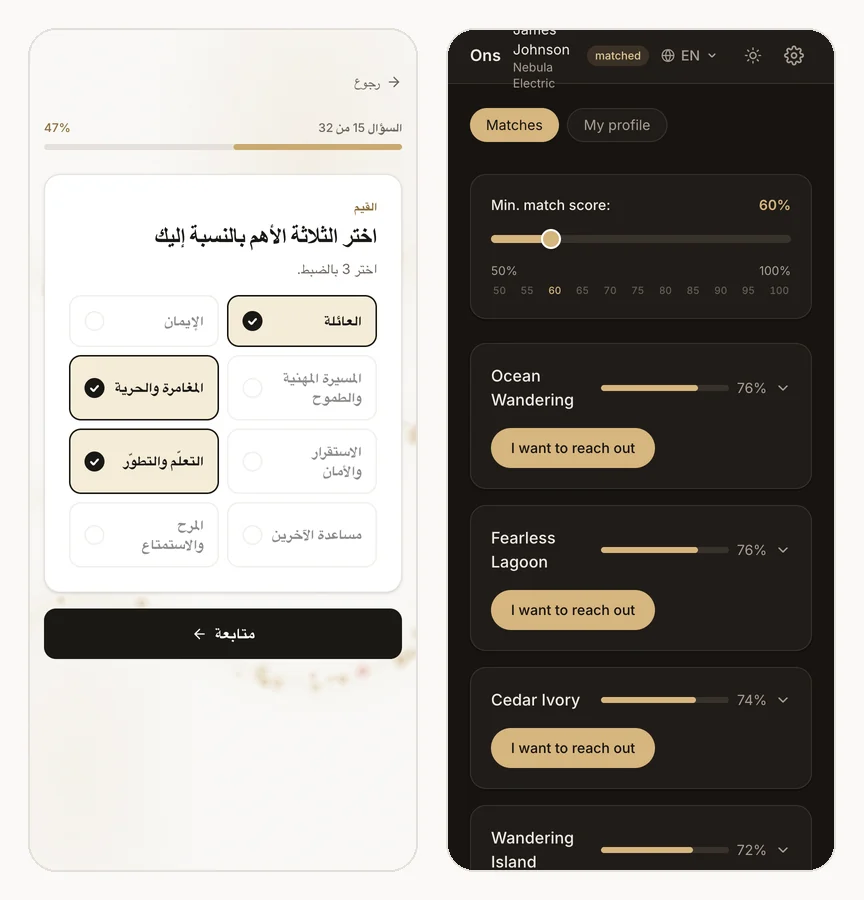
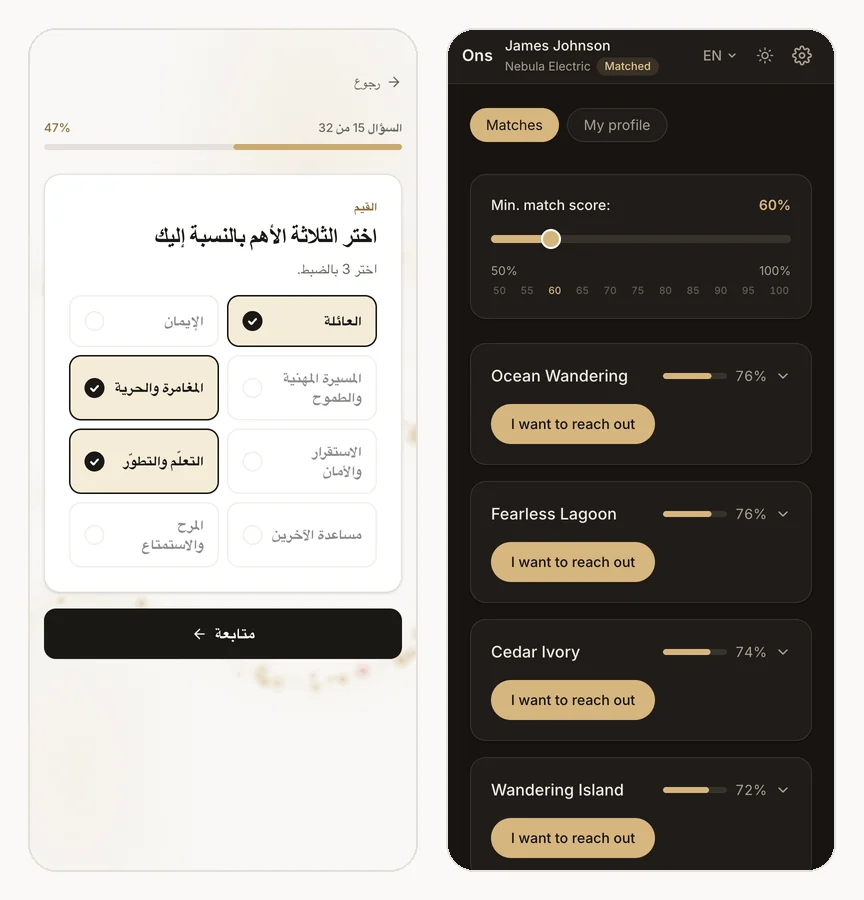
docs: French and German previews in the README
Adds the landing page in French and the applicant portal in German on a
laptop, and the form on a phone in both languages. The English portal and
dark-mode previews are retaken with the fixed header.

diff --git a/README.md b/README.md
@@ -22,7 +22,15 @@ A privacy-first couple matching platform. Applicants answer a short tap-only que
 | ![Application form on a laptop, showing the values question with three options selected](./docs/screenshots/form-desktop.webp) | ![Applicant portal on a laptop: a match card expanded to show the partner's shared answers](./docs/screenshots/portal-matches-desktop.webp) |
 | ![Landing page on a laptop](./docs/screenshots/home-desktop.webp) | ![Applicant portal on a laptop: the score breakdown for a match](./docs/screenshots/portal-breakdown-desktop.webp) |
 
-**Four languages and dark mode** — English, French, German and Arabic (right-to-left). The portal and admin panel have a dark theme; the public form is light-only by design.
+**Four languages** — English, French, German and Arabic, switchable on every page. Stored answers are language-independent, so people answering in different languages are matched the same way.
+
+| Français | Deutsch |
+|---|---|
+| ![Landing page in French on a laptop](./docs/screenshots/home-desktop-fr.webp) | ![Applicant portal in German on a laptop: a match card with the partner's shared answers](./docs/screenshots/portal-matches-desktop-de.webp) |
+
+<img src="./docs/screenshots/form-mobile-fr-de.webp" alt="The form on a phone: the pick-three values question in French, and the conflict-style question in German with an answer selected" width="520">
+
+**Right-to-left and dark mode** — Arabic flips the whole layout. The portal and admin panel have a dark theme; the public form is light-only by design.
 
 <img src="./docs/screenshots/mobile-arabic-and-dark.webp" alt="The values question in Arabic with a right-to-left layout, and the applicant portal in dark mode on a phone" width="520">
 
